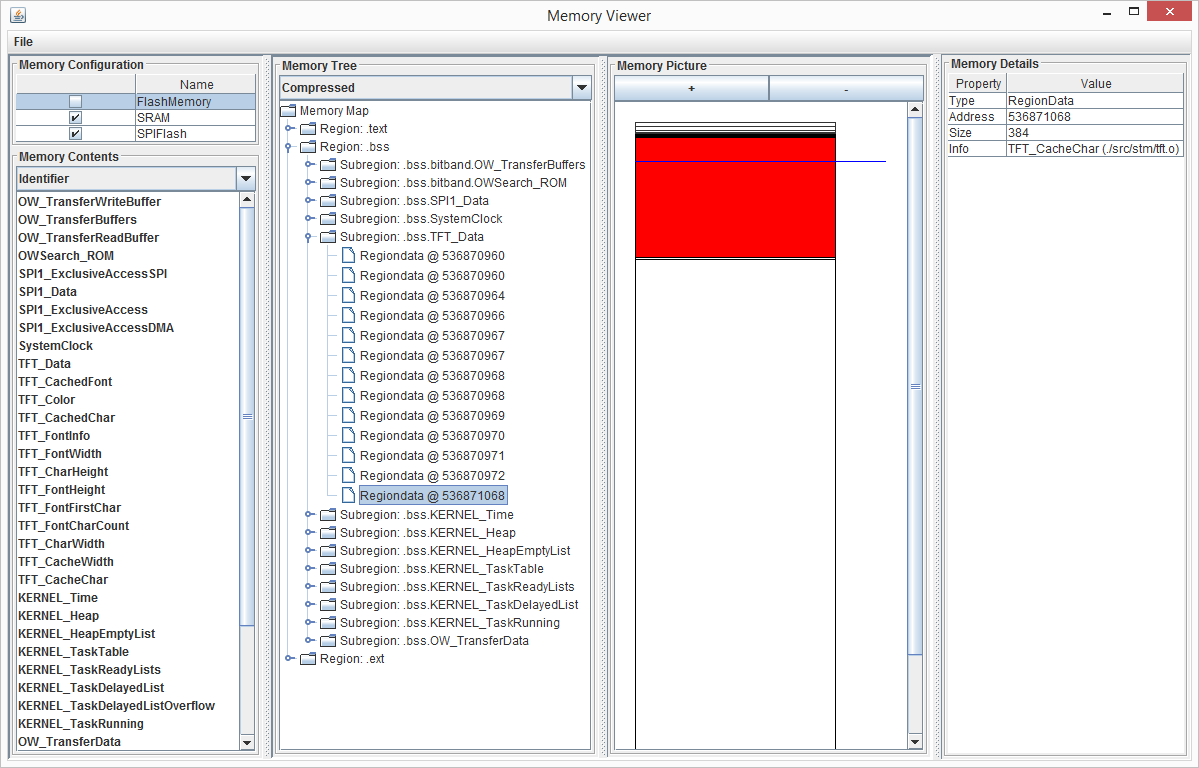
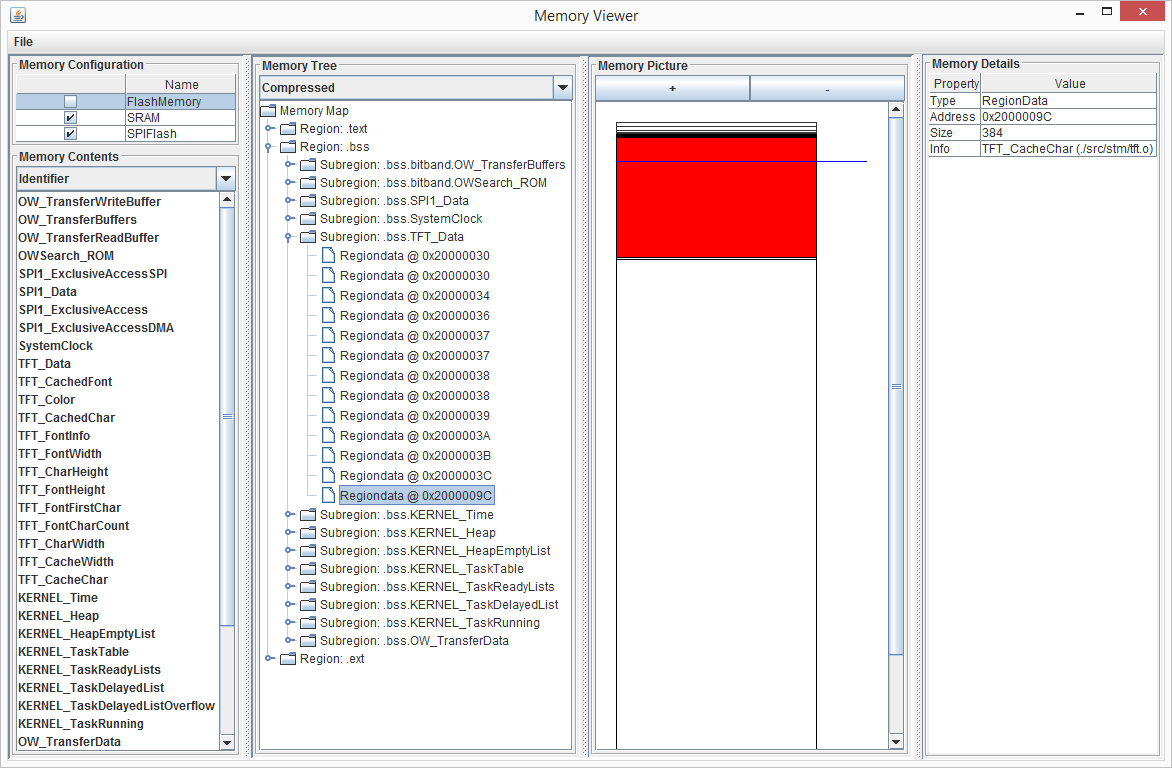
Addresses in HEX

diff --git a/src/MemoryViewer/MemoryDetailsComponent.java b/src/MemoryViewer/MemoryDetailsComponent.java
@@ -73,6 +73,13 @@ class DetailsTableModel extends AbstractTableModel
 		properties[0] = "";
 		values[0] = "";
 	}
+	
+	// Helpers
+	private String toLargeHexString (long number)
+	{
+		number &= 0xFFFFFFFF;
+		return "0x" + Long.toHexString(0x100000000L | number).substring(1).toUpperCase();
+	}
 
 	// Make it possible to set a new details object
 	public void setDetails (Object detailsObject) {
@@ -160,7 +167,7 @@ class DetailsTableModel extends AbstractTableModel
 		properties[1] = "Number of subregions";		values[1] = region.getNumberOfSubRegions();
 		properties[2] = "Name";						values[2] = region.getName();
 		properties[3] = "Fill";						values[3] = region.getFill();
-		properties[4] = "Address";					values[4] = region.getData().getAddress();
+		properties[4] = "Address";					values[4] = toLargeHexString(region.getData().getAddress());
 		properties[5] = "Size";						values[5] = region.getData().getSize();
 		properties[6] = "Info";						values[6] = region.getData().getInfo();
 	}
@@ -179,7 +186,7 @@ class DetailsTableModel extends AbstractTableModel
 		values = new Object[4];
 		
 		properties[0] = "Type";						values[0] = "RegionData";
-		properties[1] = "Address";					values[1] = regionData.getAddress();
+		properties[1] = "Address";					values[1] = toLargeHexString(regionData.getAddress());
 		properties[2] = "Size";						values[2] = regionData.getSize();
 		properties[3] = "Info";						values[3] = regionData.getInfo();
 	}
@@ -199,8 +206,8 @@ class DetailsTableModel extends AbstractTableModel
 		
 		properties[0] = "Type";						values[0] = "Space";
 		properties[1] = "Name";						values[1] = space.getName();
-		properties[2] = "Origin";					values[2] = space.getOrigin();
-		properties[3] = "Length";					values[3] = space.getLength();
+		properties[2] = "Origin";					values[2] = toLargeHexString(space.getOrigin());
+		properties[3] = "Length";					values[3] = toLargeHexString(space.getLength());
 		properties[4] = "Erasable";					values[4] = space.getAttributes().isErasable();
 		properties[5] = "Readable";					values[5] = space.getAttributes().isReadable();
 		properties[6] = "Writable";					values[6] = space.getAttributes().isWritable();
@@ -233,7 +240,7 @@ class DetailsTableModel extends AbstractTableModel
 		properties[0] = "Type";						values[0] = "IdentifierContent";
 		properties[1] = "Identifier";				values[1] = identifierContent.getIdentifier();
 		properties[2] = "File";						values[2] = identifierContent.getFile();
-		properties[3] = "Address";					values[3] = identifierContent.getAddress();
+		properties[3] = "Address";					values[3] = toLargeHexString(identifierContent.getAddress());
 		properties[4] = "Size";						values[4] = identifierContent.getSize();
 	}
 	
@@ -243,7 +250,7 @@ class DetailsTableModel extends AbstractTableModel
 		
 		properties[0] = "Type";						values[0] = "DataContent";
 		properties[1] = "Data";						values[1] = dataContent.getData();
-		properties[2] = "Address";					values[2] = dataContent.getAddress();
+		properties[2] = "Address";					values[2] = toLargeHexString(dataContent.getAddress());
 		properties[3] = "Size";						values[3] = dataContent.getSize();
 	}
 	
@@ -253,7 +260,7 @@ class DetailsTableModel extends AbstractTableModel
 		
 		properties[0] = "Type";						values[0] = "FillContent";
 		properties[1] = "Fill";						values[1] = fillContent.getFill();
-		properties[2] = "Address";					values[2] = fillContent.getAddress();
+		properties[2] = "Address";					values[2] = toLargeHexString(fillContent.getAddress());
 		properties[3] = "Size";						values[3] = fillContent.getSize();
 	}
 	

diff --git a/src/MemoryViewer/MemoryMapComponent.java b/src/MemoryViewer/MemoryMapComponent.java
@@ -217,7 +217,7 @@ class MemoryMapTree extends JTree
 			else if (info instanceof SubRegion)
 				return "Subregion: " + ((SubRegion)info).getName();
 			else if (info instanceof RegionData)
-				return "Regiondata @ " + ((RegionData)info).getAddress();
+				return "Regiondata @ " + "0x" + Long.toHexString(0x100000000L | (((RegionData)info).getAddress() & 0xFFFFFFFF)).substring(1).toUpperCase();
 			else
 				return info.toString();
 		}
